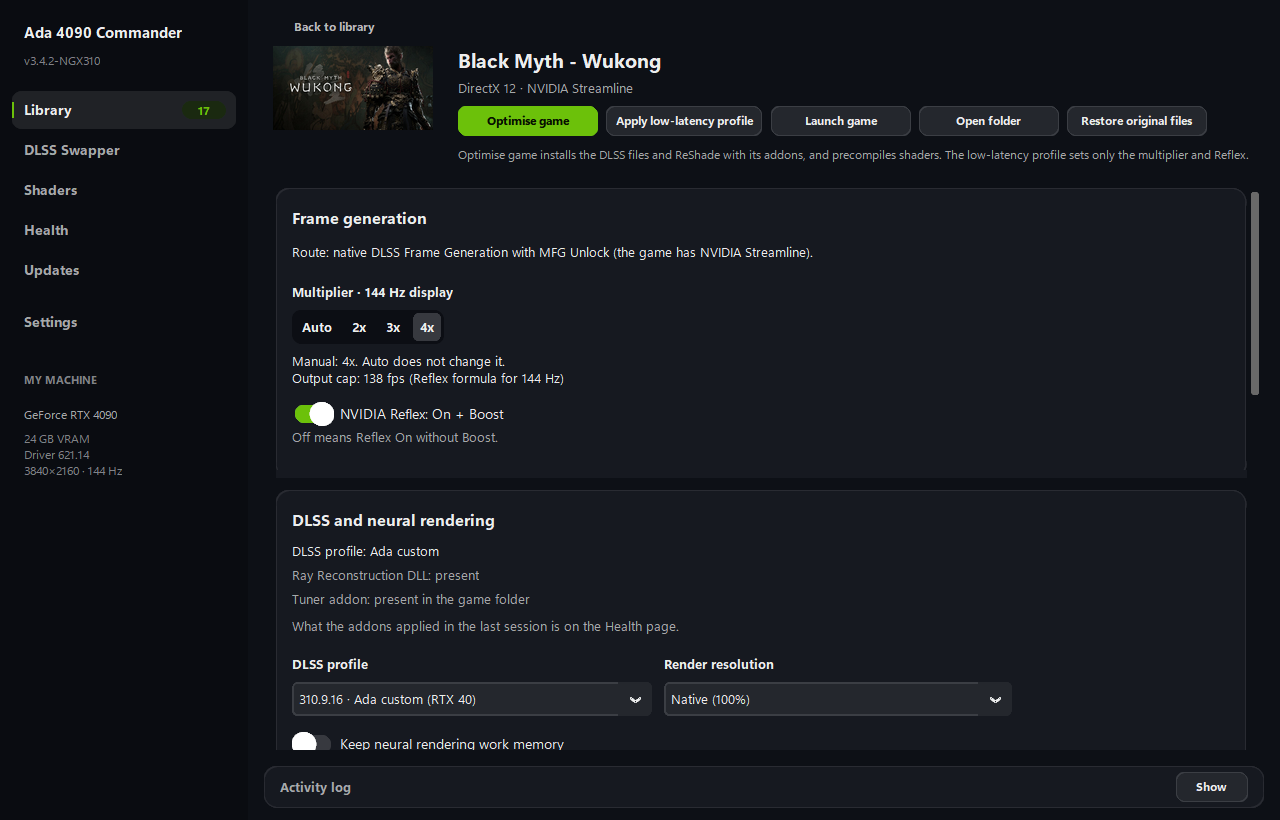
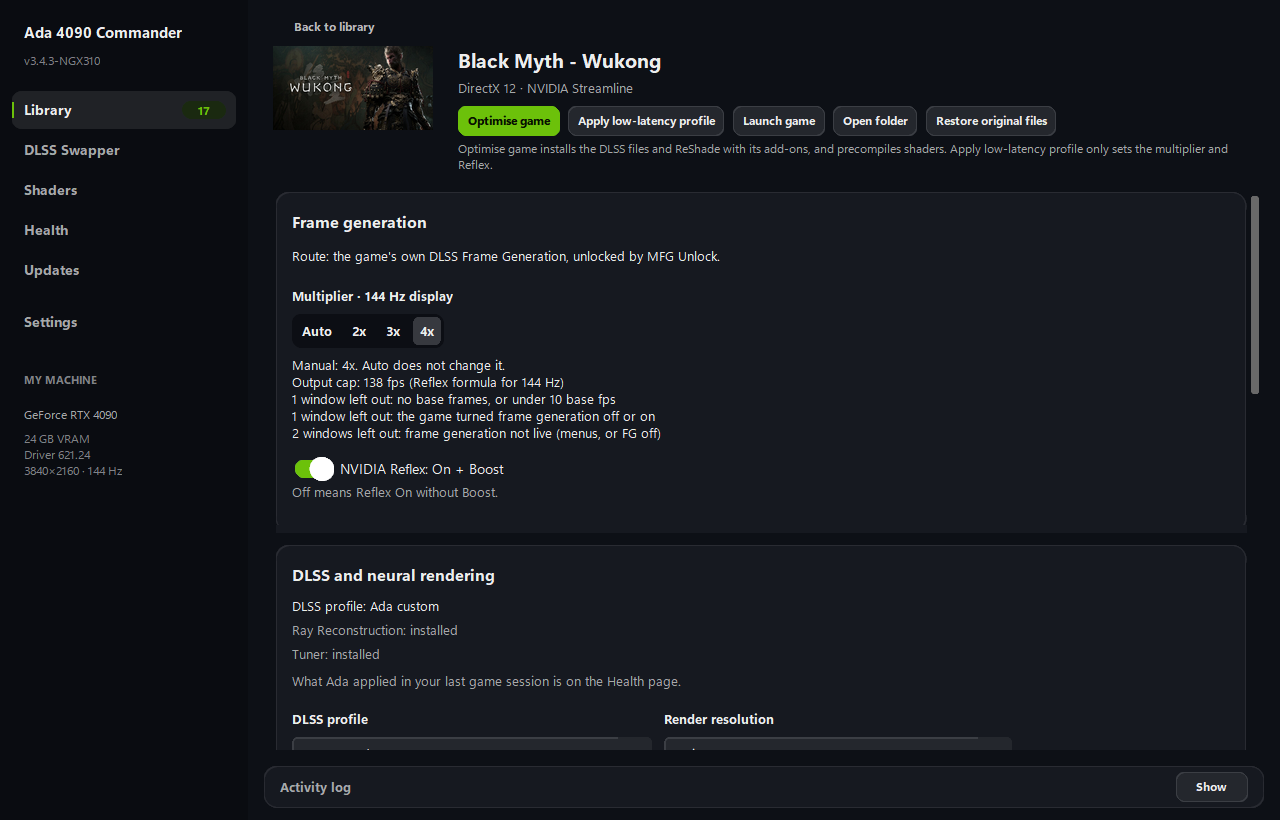
release: Ada 4090 Commander v3.4.3

Changed region(s): [[0.2188, 0.2439, 0.625, 0.6402], [0.2188, 0.6707, 0.625, 0.9146], [0.3438, 0.122, 0.9688, 0.2134]]

diff --git a/README.md b/README.md
@@ -5,7 +5,7 @@
 </p>
 
 <p align="center">
-  <a href="https://github.com/sellerengine-app/Ada4090Commander-Portable/releases/latest"><img src="https://img.shields.io/badge/Release-v3.4.2_Portable-brightgreen?style=for-the-badge" alt="Release v3.4.2 Portable"></a>
+  <a href="https://github.com/sellerengine-app/Ada4090Commander-Portable/releases/latest"><img src="https://img.shields.io/badge/Release-v3.4.3_Portable-brightgreen?style=for-the-badge" alt="Release v3.4.3 Portable"></a>
   <img src="https://img.shields.io/badge/Platform-Windows_10%2F11-blue?style=for-the-badge" alt="Windows 10/11">
   <img src="https://img.shields.io/badge/Built_for-RTX_40_(Ada)-76B900?style=for-the-badge" alt="Built for RTX 40 (Ada)">
   <img src="https://img.shields.io/badge/NVIDIA_DLSS-310.9.16-76B900?style=for-the-badge" alt="NVIDIA DLSS 310.9.16">
@@ -16,7 +16,8 @@
   <a href="#-gpu-hardware-compatibility">GPU compatibility</a> ·
   <a href="#-what-the-app-does">What it does</a> ·
   <a href="#-measured-on-an-rtx-4090">Measurements</a> ·
-  <a href="RELEASE_NOTES_v3.4.2.md">Release notes</a>
+  <a href="#-mfg-for-legacy-games">MFG for Legacy Games</a> ·
+  <a href="RELEASE_NOTES_v3.4.3.md">Release notes</a>
 </p>
 
 ---
@@ -28,19 +29,17 @@ Built and tested on a **GeForce RTX 4090** with a 4K 144 Hz display. Where somet
   <img src="assets/game-page.png" width="49%" alt="Game page: frame generation, DLSS and the other settings of one game">
 </p>
 
-## ✨ New in v3.4.2
+## ✨ New in v3.4.3
 
-- **Neural Rendering runtime 1.8 % faster on RTX 40, same image** (bit-for-bit identical on the bench).
-- **MFG Unlock cleaned up:** no XMX generator, a pacing line in the log every 10 s, and two features that never actually ran on an RTX 4090 are fixed and marked experimental.
-- **DXR Fast-Trace off by default**; DXR telemetry in the log.
-- **New per-game option** to keep the neural network's work memory (off by default).
-- **Engine.ini no longer lowers** the texture and shadow quality you chose in the game.
-- **A new, sober interface:** the game page shows the settings first and the diagnostics folded away, every page has the same layout, and the buttons say what they do ("Optimise game", "Restore original files"). English everywhere and no claims the app cannot prove.
-- **No more waiting forever** when a backup store is damaged.
-- **Auto multiplier:** at a full optimisation the app picks 2x, 3x or 4x from the real frame rate of your last session, and caps the output just under the refresh rate (138 fps on 144 Hz).
-- **Ray tracing options per game**, off by default: Ray Reconstruction and Hit Lighting through Engine.ini, and ray tracing quality High in Call of Duty.
+- **MFG for Legacy Games:** our own frame generation (2x, 3x, 4x or Auto) for games that have no DLSS Frame Generation, such as Final Fantasy VII Remake. You turn it on and off and change the multiplier in the game, from its own tab in the ReShade panel. [Details below](#-mfg-for-legacy-games).
+- **Neural rendering look by default:** optimising a game now writes a tested look for the neural pass.
+- **Simpler texts:** cards, help lines and dialogs say what each thing does for the player; the technical detail is folded away.
+- **"Launch game" starts the game the way its store does** (Steam, the game's protected launcher, or the game's program).
+- **Nothing is written while the game is open,** and "open" now also counts the game's launcher.
+- **Restore removes the files ReShade and the neural addon leave behind.**
+- **Auto multiplier** never mistakes a multiplier you picked by hand for its own.
 
-Full list in the [release notes](RELEASE_NOTES_v3.4.2.md).
+Full list in the [release notes](RELEASE_NOTES_v3.4.3.md).
 
 ## 🎯 GPU hardware compatibility
 
@@ -48,7 +47,7 @@ The pack is built for the RTX 40 series and **only tested on an RTX 4090**. The 
 
 | Series (architecture) | Models | DLSS 5 Neural Rendering | DLSS presets | Frame generation | Ray tracing (DXR) tuner | Tested |
 |---|---|---|---|---|---|---|
-| **RTX 40 – Ada** (`sm_89`)<br>*Primary target* | **RTX 4090 / 4090 D** (24 GB) | ✅ Native kernels, 1.8 % faster in v3.4.2 | ✅ SR: K / M / L<br>✅ Ray Reconstruction: F | ✅ DLSS Frame Generation 2x / 3x / 4x with MFG Unlock (games with Streamline)<br>✅ NVIDIA Smooth Motion 2x (other games) | ✅ Recursion limit 4 + telemetry | ✅ Built and measured here |
+| **RTX 40 – Ada** (`sm_89`)<br>*Primary target* | **RTX 4090 / 4090 D** (24 GB) | ✅ Native kernels, 1.8 % faster since v3.4.2 | ✅ SR: K / M / L<br>✅ Ray Reconstruction: F | ✅ DLSS Frame Generation 2x / 3x / 4x with MFG Unlock (games with Streamline)<br>✅ MFG for Legacy Games 2x / 3x / 4x, or NVIDIA Smooth Motion 2x (other games) | ✅ Recursion limit 4 + telemetry | ✅ Built and measured here |
 | **RTX 40 – Ada** (`sm_89`) | RTX 4080 Super / 4080 (16 GB)<br>RTX 4070 Ti Super / 4070 Ti / 4070 Super / 4070 (12–16 GB)<br>RTX 4060 Ti / 4060 (8–16 GB) | ✅ Same kernels as the 4090<br>⚠ Cost not measured; expect it to be much higher | ✅ Same presets | ✅ Same as the 4090 | ✅ Same as the 4090 | ⚠ Not tested |
 | **RTX 50 – Blackwell** (`sm_120`) | RTX 5090 / 5080 / 5070 … | ✅ NVIDIA's own kernels, unchanged | ✅ Same presets | ➖ Native multi frame generation; MFG Unlock leaves the game alone | ✅ Recursion limit 4 + telemetry | ⚠ Not tested |
 | **RTX 30 – Ampere** (`sm_86`) | RTX 3090 Ti … 3060 | ⚠ Kernels included, never run by us | ✅ Same presets | ➖ No DLSS Frame Generation on this series (NVIDIA requirement) | ✅ Recursion limit 4 + telemetry | ⚠ Not tested |
@@ -76,9 +75,9 @@ Before the first write, the app keeps the original of every file it touches in `
 
 ### 🎞 Frame generation route, chosen per game
 - **Games with NVIDIA Streamline:** DLSS Frame Generation with MFG Unlock (multipliers above 2x on RTX 40) and a frame rate cap through Reflex when VRR is active (refresh rate minus 2.8 %, 139.96 FPS on 144 Hz). The route is "native" only when a Streamline DLL is really on disk, and the game page says which file decided it. **Auto** picks 2x, 3x or 4x at a full optimisation from the real frame rate of the last session: the smallest multiplier that reaches the output cap. The cap comes from the refresh rate seen in the log (138 fps on 144 Hz). If the cap was already limiting the last session, Auto keeps the current multiplier, because the real base rate cannot be known. A multiplier you pick by hand is never changed. A game optimised with an earlier version keeps the 2x or 4x it had; the old default, 3x, becomes Auto, and the game page shows what Auto will write before it does.
-- **Games without Streamline** (for example Final Fantasy VII Remake): **NVIDIA Smooth Motion**, the driver's own 2x. If you own Lossless Scaling, the app can start it with the game; it generates frames only if it is set up for that game.
+- **Games without Streamline** (for example Final Fantasy VII Remake): **MFG for Legacy Games** (2x, 3x, 4x or Auto, handled in the game, [see below](#-mfg-for-legacy-games)), or **NVIDIA Smooth Motion**, the driver's own 2x, if you switch it off for that game. If you own Lossless Scaling, the app can start it with the game; it generates frames only if it is set up for that game.
 
-On deployment the app may change **Smooth Motion** in that game's NVIDIA driver profile only: on for games without Streamline, off for games with DLSS Frame Generation when it only comes from your global setting. It never changes the global setting, never writes while the game runs, and Restore puts the profile back. No administrator rights needed.
+On deployment the app may change **Smooth Motion** in that game's NVIDIA driver profile only: off for a game that uses MFG for Legacy Games, on for the other games without Streamline, and off for games with DLSS Frame Generation when it only comes from your global setting. It never changes the global setting, never writes while the game runs, and Restore puts the profile back. No administrator rights needed.
 
 ### 🛠 Engine.ini (Unreal Engine games)
 - The app finds the game's own `Engine.ini` by exact project name; if unsure, it asks instead of writing. Games that are not Unreal show no Engine.ini controls.
@@ -91,16 +90,18 @@ On deployment the app may change **Smooth Motion** in that game's NVIDIA driver 
 The per-game option **Keep neural rendering work memory** writes `NRWorksetFreePolicy=1` for the DLSS 5 addon, so it keeps its work sets instead of releasing them after 5 s without use. It may remove hitches when the game switches outputs and uses more VRAM (up to about 0.6 GB per work set at 4K, 8 at most). The addon does not document this setting itself. **Not proven in a game session.** Health counts the work sets created and released in the last session.
 
 ### 🔒 Your settings stay yours
-Only a full optimisation ("Optimise game" or "Update all games") writes the addons' settings. The multiplier and Reflex selectors write only their own setting, so your in-game panel changes stay. Nothing is written while the game is running.
+Only a full optimisation ("Optimise game" or "Update all games") writes the addons' settings, including the default look of the neural pass. The multiplier and Reflex selectors write only their own setting, so your in-game panel changes stay until the next optimisation. Nothing is written while the game, or its launcher, is open.
 
 ## 📦 What is in the pack
 
 | File | What it is |
 |---|---|
 | `nvngx_dlss.dll`, `nvngx_dlssd.dll`, `nvngx_dlssg.dll` | NVIDIA DLSS Super Resolution, Ray Reconstruction and Frame Generation 310.9.16, signed by NVIDIA, unchanged |
-| `nvngx_dlssnr.dll` | Custom build of NVIDIA's 310.9.16 Neural Rendering runtime with native kernels for RTX 20, 30 and 40. Not signed by NVIDIA; network weights unchanged. New in v3.4.2: the RTX 40 kernels no longer wait after each memory copy; the kernels for RTX 20, 30 and 50 are byte-for-byte the same as in v3.4.1 |
+| `nvngx_dlssnr.dll` | Custom build of NVIDIA's 310.9.16 Neural Rendering runtime with native kernels for RTX 20, 30 and 40. Not signed by NVIDIA; network weights unchanged. Since v3.4.2 the RTX 40 kernels no longer wait after each memory copy; the kernels for RTX 20, 30 and 50 are byte-for-byte the same as in v3.4.1. Same file as in v3.4.2 |
 | `ada4090-sm89-tuner.addon64` | ReShade addon: DLSS presets (K for DLAA to Balanced, M for Performance, L for Ultra Performance, F for Ray Reconstruction), `DLSS.Use.Folded.Network = 1`, Frame Generation creation settings, a ray tracing recursion limit of 4 (`DxrRecursionClampDepth=0` turns it off for a game) and DXR telemetry in the log. **DXR Fast-Trace is off by default** (`DxrFastTrace=0`). Its in-game panel says when each setting takes effect |
 | `renodx-mfgunlock.addon64` | ReShade addon: Frame Generation multipliers above 2x on RTX 40, the VRR frame rate cap, and a pacing line in the log every 10 s. No XMX generator. The adaptive quality suite and the validated blend are **experimental and off by default**: turning them on changes the generated frames, which has not been checked in a game |
+| `mfgl_host.exe` | MFG for Legacy Games: our own program (MIT licence). It captures the game window with Windows Graphics Capture and shows the generated frames on top of it. New in v3.4.3 |
+| `ada4090-mfgl.addon64` | MFG for Legacy Games: our own ReShade add-on (MIT licence). It starts the program inside the game and adds its tab to the ReShade panel. New in v3.4.3 |
 | `renodx-dlss5.addon64`, `dlss5-feed.addon64`, `dxgi.dll` (ReShade 6.8.0), `scskiller\` | Third-party binaries |
 | `THIRD-PARTY-NOTICES.txt` | Licences of the bundled third-party components |
 
@@ -108,7 +109,7 @@ Only a full optimisation ("Optimise game" or "Update all games") writes the addo
 
 **In a game.** Final Fantasy VII Remake, 4K, two network passes: about 14.2 ms of GPU time for the whole neural feed at scale 0.67, against 24.9 ms at 1.00 (measured with v3.4.1).
 
-**On a bench.** v3.4.2 was measured with a bench that runs the NVIDIA runtimes without a game (synthetic 4K input, Final Fantasy VII Remake's settings; it reports GPU time per evaluation and a hash of the output). Nothing in this block was measured in a game.
+**On a bench.** The runtimes (the same files since v3.4.2) were measured with a bench that runs the NVIDIA runtimes without a game (synthetic 4K input, Final Fantasy VII Remake's settings; it reports GPU time per evaluation and a hash of the output). Nothing in this block was measured in a game.
 
 - **Neural Rendering runtime:** output bit-for-bit identical to v3.4.1 over 66,000 evaluations, at four resolutions and under GPU load, and the whole evaluation 1.78 % faster (15.85 ms to 15.57 ms).
 - **DLSS Super Resolution, cost per frame at 4K output:**
@@ -122,14 +123,26 @@ Only a full optimisation ("Optimise game" or "Update all games") writes the addo
 
 - **`DLSS.Use.Folded.Network = 1`** changed neither the cost nor the image of Super Resolution with presets K, M and L.
 
-## 🚧 In development: MFG for Legacy Games (not enabled yet)
+## 🎬 MFG for Legacy Games
 
-Our own frame generation (2x, 3x, 4x) for games without NVIDIA Streamline and without an upscaler, such as Final Fantasy VII Remake. It runs in a separate program that captures the game window and presents the generated frames on top, so nothing is injected into the game.
+Our own frame generation (2x, 3x, 4x or Auto) for games that have no DLSS Frame Generation, such as Final Fantasy VII Remake. It is a separate program that captures the game window and shows the generated frames on top of it. A small ReShade add-on in the game starts it and gives you its tab.
 
-- **In v3.4.2:** the app already detects which games would use it, and the code is included, but it is switched off and shows no controls. Those games keep NVIDIA Smooth Motion (2x).
-- **Measured on a bench without a game, at 4K:** 5.2 ms of GPU time per real frame for 3x under a load like the neural network's (3.9 ms for 2x, 6.3 ms for 4x); generated frames 6 dB (SDR) to 9 dB (HDR) better than a plain blend; scene cuts detected 10 out of 10.
-- **Tested on a real 4K 144 Hz display with a test image, not a game:** 2x, 3x and 4x keep a regular rhythm from 46 and 34 fps sources, in SDR and HDR, with no wrong frames. The overlay itself adds under 1 ms; from the source's frame to ours on screen it is 9 to 12 ms in the worst 1 %.
-- **What is missing:** the integration in the app, a check that the overlay keeps VRR, and a test in a game. Planned for v3.4.3. Because it works from the final image only, it adds latency (25 to 30 ms at 3x in our estimate, not measured) and cannot match DLSS Frame Generation.
+- **You handle it in the game.** Open the ReShade panel (Home key) and use the **MFG for Legacy Games** tab: Off, Auto, 2x, 3x or 4x. The change applies at once, without closing the game, and your choice is kept for the next time.
+- **It starts with the game, however you start it:** from the app, from its store or from a shortcut.
+- **It is on after "Optimise game"** in games without DLSS Frame Generation, starting at 2x (what NVIDIA Smooth Motion gave in those games). In a game where the app detects anti-cheat it stays off unless you turn it on in the game page.
+- **It replaces NVIDIA Smooth Motion in those games** (two frame generators cannot run together): the app turns Smooth Motion off for that game and Restore puts it back. To keep Smooth Motion in a game, switch "Use MFG for Legacy Games" off in its game page and optimise again.
+- **No frame rate limit of ours.** The game runs free; the only ceiling is your display's refresh rate. When the game's frame rate moves, each generated frame is shown at the time its content belongs to.
+- **Borderless window only.** Exclusive full screen is not supported, and the tab says so.
+- **Panic key:** Ctrl+Alt+F12 turns it off.
+- **It works from the final image only,** so it adds latency (about one real frame) and cannot match DLSS Frame Generation.
+- If you change the game's resolution or move it to another monitor, it starts again by itself.
+
+**Tested in a game so far:** in Final Fantasy VII Remake the add-on starts the program by itself, without launching from the app. A full session with the final build (generating, and changing the multiplier from the tab) has not been measured yet. Do not turn NVIDIA Smooth Motion on for the same game: two frame generators at once make the game much slower.
+
+**Measured without a game, at 4K:**
+- 5.2 ms of GPU time per real frame for 3x under a load like the neural network's (3.9 ms for 2x, 6.3 ms for 4x); generated frames 6 dB (SDR) to 9 dB (HDR) better than a plain blend; scene cuts detected 10 out of 10.
+- On a real 4K 144 Hz display with a test image: 2x, 3x and 4x keep a regular rhythm from 46 and 34 fps sources, in SDR and HDR, with no wrong frames.
+- With a test source whose frame rate moves between 73 and 90 fps: frames generated 96 to 98 % of the time; in the worst 5 % a generated frame is shown about 6 ms away from its ideal time (one refresh of a 144 Hz display is 6.9 ms).
 
 ## 🚫 What this pack does not do
 
@@ -146,8 +159,8 @@ Our own frame generation (2x, 3x, 4x) for games without NVIDIA Streamline and wi
 
 ## 📥 Download and install
 
-1. Download **`Ada4090Commander_v3.4.2_NGX310_Portable.zip`** from the [latest release](https://github.com/sellerengine-app/Ada4090Commander-Portable/releases/latest).
+1. Download **`Ada4090Commander_v3.4.3_NGX310_Portable.zip`** from the [latest release](https://github.com/sellerengine-app/Ada4090Commander-Portable/releases/latest).
 2. Extract it into a new folder.
 3. Run **`Ada4090Commander.exe`**.
 
-Release notes of every version: [v3.4.2](RELEASE_NOTES_v3.4.2.md) · [v3.4.1](RELEASE_NOTES_v3.4.1.md) · [v3.4.0](RELEASE_NOTES_v3.4.0.md) · [v3.3.12](RELEASE_NOTES_v3.3.12.md) · [v3.3.11](RELEASE_NOTES_v3.3.11.md) · [v3.3.10](RELEASE_NOTES_v3.3.10.md) · [v3.3.9](RELEASE_NOTES_v3.3.9.md) · [v3.3.8](RELEASE_NOTES_v3.3.8.md)
+Release notes of every version: [v3.4.3](RELEASE_NOTES_v3.4.3.md) · [v3.4.2](RELEASE_NOTES_v3.4.2.md) · [v3.4.1](RELEASE_NOTES_v3.4.1.md) · [v3.4.0](RELEASE_NOTES_v3.4.0.md) · [v3.3.12](RELEASE_NOTES_v3.3.12.md) · [v3.3.11](RELEASE_NOTES_v3.3.11.md) · [v3.3.10](RELEASE_NOTES_v3.3.10.md) · [v3.3.9](RELEASE_NOTES_v3.3.9.md) · [v3.3.8](RELEASE_NOTES_v3.3.8.md)

diff --git a/RELEASE_NOTES_v3.4.3.md b/RELEASE_NOTES_v3.4.3.md
@@ -1,0 +1,60 @@
+# Ada 4090 Commander v3.4.3-NGX310 Portable
+
+Includes everything in v3.4.2. The app changes and MFG for Legacy Games is added: a new program and a new ReShade add-on with its tab in the game. The NVIDIA runtimes, the Neural Rendering runtime, the tuner addon and MFG Unlock are the same files as in v3.4.2.
+
+## MFG for Legacy Games
+Our own frame generation (2x, 3x, 4x or Auto) for games that have no DLSS Frame Generation, such as Final Fantasy VII Remake. It is a separate program that captures the game window and shows the generated frames on top of it; a small ReShade add-on in the game starts it and gives you its tab.
+
+- **You handle it in the game.** Open the ReShade panel (Home key) and use the **MFG for Legacy Games** tab: Off, Auto, 2x, 3x or 4x. The change applies at once, without closing the game, and your choice is kept for the next time.
+- **It starts with the game, however you start it:** from the app, from its store or from a shortcut.
+- **It is on after "Optimise game"** in games without DLSS Frame Generation, starting at 2x (what NVIDIA Smooth Motion gave in those games). In a game where the app detects anti-cheat it stays off unless you turn it on in the game page.
+- **It replaces NVIDIA Smooth Motion in those games** (two frame generators cannot run together): the app turns Smooth Motion off for that game and Restore puts it back. To keep Smooth Motion in a game, switch "Use MFG for Legacy Games" off in its game page and optimise again.
+- **No frame rate limit of ours.** The game runs free; the only ceiling is your display's refresh rate. When the game's frame rate moves, each generated frame is shown at the time its content belongs to.
+- **Borderless window only.** Exclusive full screen is not supported, and the tab says so.
+- **Panic key:** Ctrl+Alt+F12 turns it off.
+- **It works from the final image only,** so it adds latency (about one real frame) and cannot match DLSS Frame Generation.
+- If you change the game's resolution or move it to another monitor, it starts again by itself.
+- If you used NVIDIA Smooth Motion in one of these games, the next optimisation moves it to MFG for Legacy Games at 2x.
+- **What has been tested in a game:** in Final Fantasy VII Remake the add-on starts the program by itself, without launching from the app. A full session with this final build (generating, and changing the multiplier from the tab) has not been measured yet. Without a game, with a test image, the change from the tab's channel was tested: 2x, then 4x, then Auto, without restarting anything.
+
+## What's new
+- **Neural rendering look by default.** Optimising a game now writes a tested look for the neural pass (second pass with its own settings, detail stability always on, fine-tuned tone, detail and halo values). It is written at "Optimise game" and "Update all games"; what you change later in the in-game panel stays until the next optimisation.
+- **Simpler texts.** Cards, help lines and dialogs say what each thing does for the player, without file names or engine variables. The technical detail is still there, folded under "Files in the game folder" and on the Health page.
+- **"Launch game" starts the game the way its store does:** through Steam when it is a Steam game, through the game's protected launcher when it has one, otherwise the game's program. If the program asks for administrator rights, Windows shows its own prompt.
+- **Nothing is written while the game is open.** "Optimise game" now refuses, like the other actions, and "Update all games" skips that game and says so. "Open" also counts the game's launcher or any other program running from the game folder, and the message names it.
+- **Restore removes the files ReShade and the neural addon leave behind** (their logs and a settings backup), when they were created after the app started managing the game and the game had no ReShade of its own. The summary counts them and names the ones it leaves.
+- **Auto multiplier:** what Auto writes is remembered with the game, so a multiplier you pick by hand is never mistaken for Auto's. If the in-game panel changes the multiplier you chose in the app, the game page says so.
+- **Ray tracing options:** Ray Reconstruction and Hit Lighting say why they are pending; the Call of Duty option can be switched off when the settings file has conflicting lines.
+- **Small windows:** the minimum window fits a 1920x1080 display at 150 % scaling, and no button or column is cut off at the minimum width.
+
+## Fixes
+- A game page no longer stays on "Reading…" when one card cannot read its state; that card says so and the rest of the page works.
+- The activity log shows the same names as the game page (no internal values).
+- "Quality (77%)" is no longer shown twice after changing the render resolution.
+
+## Files
+
+| File | Version | SHA-256 |
+|---|---|---|
[6 lines of base64/hex data omitted]
+
+## Known issues
+- MFG for Legacy Games: when the game loses a frame, the image holds for one frame before continuing.
+- MFG for Legacy Games: do not turn NVIDIA Smooth Motion on for the same game (in the NVIDIA app, or by optimising it with an older version of this app). Two frame generators at once make the game much slower.
+- MFG for Legacy Games: after moving the app folder, optimise your games again. The game keeps the path of the helper program, and its NVIDIA driver profile is tied to the folder.
+- MFG for Legacy Games: the tab has not been tried in games that are not DirectX 10, 11 or 12; there, exclusive full screen is only noticed after the helper program stops.
+- In `Engine.ini`, a value you change by hand on a line the app manages is overwritten at the next optimisation.
+- Tuner DLSS settings apply when the game creates DLSS, not instantly; DXR settings after a restart.
+- The effect of the ray tracing bounces option depends on each game and has not been measured.
+- Smooth Motion is 2x only.
+- Do not use the pack in online games with anti-cheat. The app warns and does not block.
+
+## Installation
+1. Download `Ada4090Commander_v3.4.3_NGX310_Portable.zip`.
+2. Extract it into a new folder you can write to.
+3. Run `Ada4090Commander.exe`.
